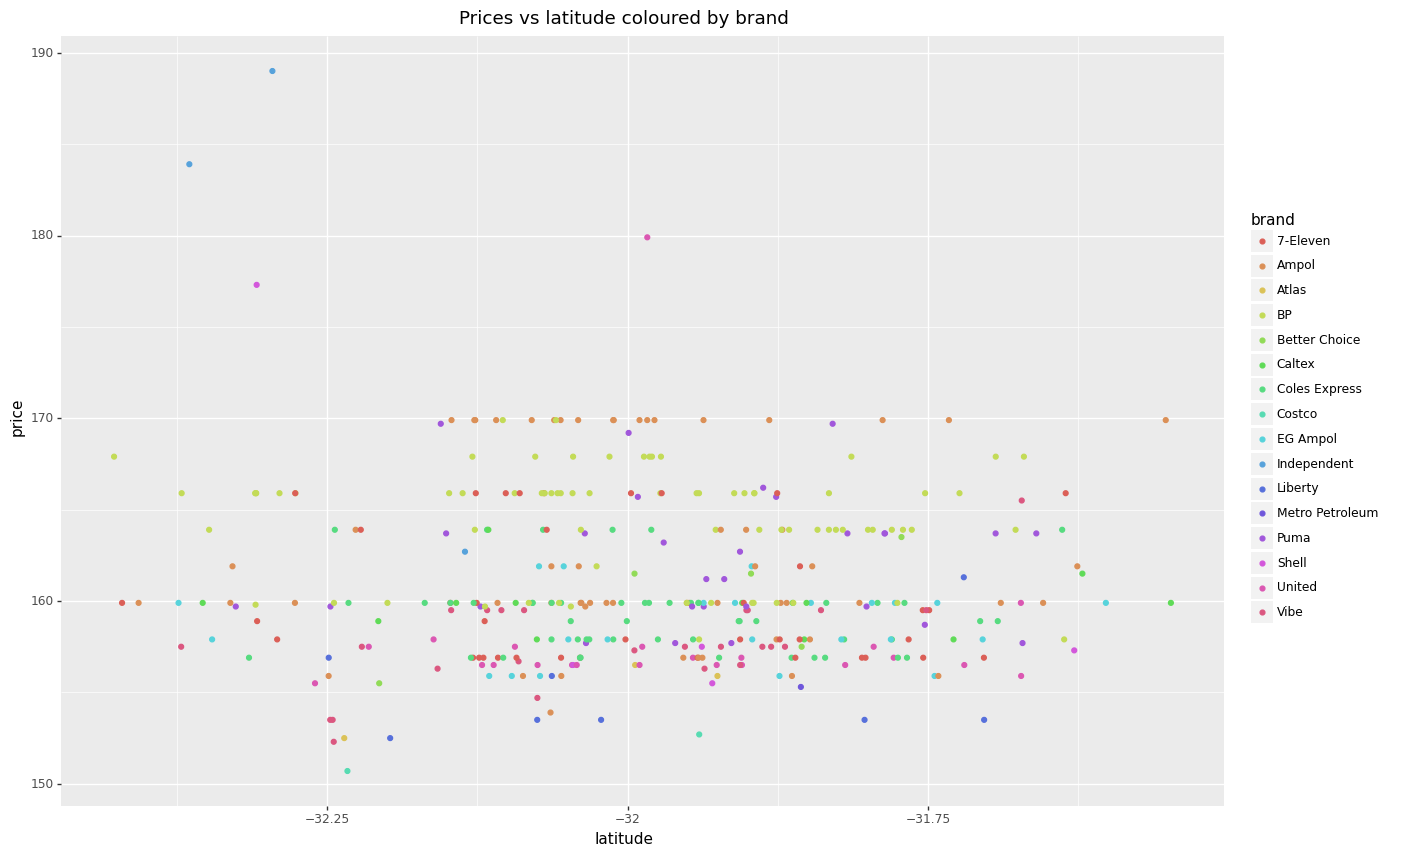
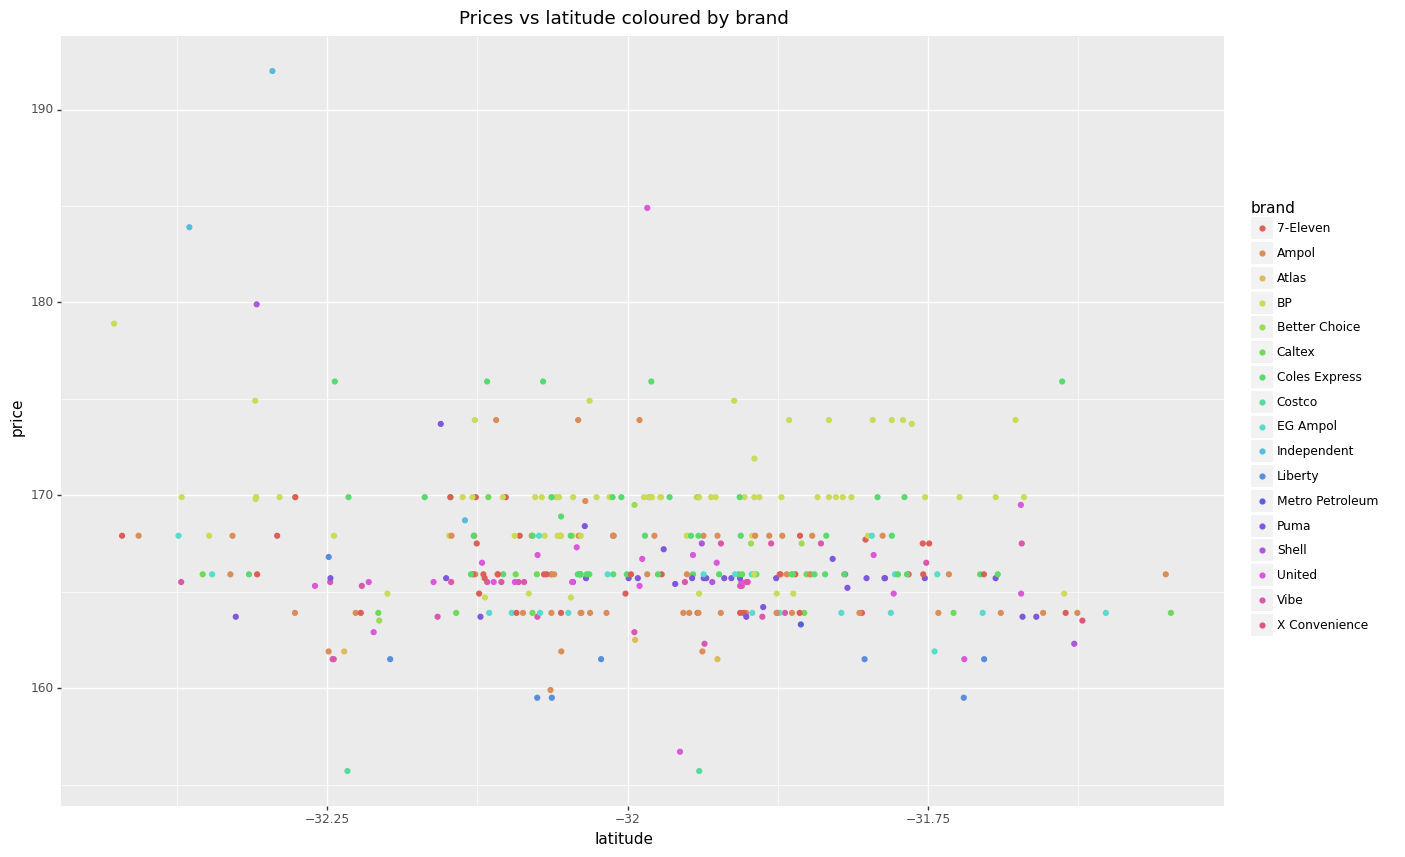
add code to save csv of data for date pulled

diff --git a/index.html b/index.html
@@ -14,6 +14,7 @@
             <!-- insert graph here -->
             <img class="plotOfPrices" src="images/plotNOR_SOR.png" alt="">
             <img class="plotMap" src="images/pricesHeatMap.png" alt="">
+            <img class="plotBar" src="images/brandsBarPlot.png" alt="">
         </div>
         <div class="fuelTable">
             <table border="1" class="dataframe">

diff --git a/header.html b/header.html
@@ -14,6 +14,7 @@
             <!-- insert graph here -->
             <img class="plotOfPrices" src="images/plotNOR_SOR.png" alt="">
             <img class="plotMap" src="images/pricesHeatMap.png" alt="">
+            <img class="plotBar" src="images/brandsBarPlot.png" alt="">
         </div>
         <div class="fuelTable">
             <!-- insert table here -->

diff --git a/style.css b/style.css
@@ -3,7 +3,7 @@ html, body {
     color: beige;
 }
 img {
-    width: 250px;
+    width: 500px;
     /* height: 250px; */
     padding: 10px;
     background-color: greenyellow;

diff --git a/backend.py b/backend.py
@@ -4,7 +4,7 @@ import numpy as np
 import pandas as pd
 import matplotlib.pyplot as plt
 import seaborn as sns
-from plotnine import ggplot, geom_point, aes, stat_smooth, facet_wrap, scale_x_continuous, theme_bw, ggtitle
+from plotnine import ggplot, geom_point, aes, stat_smooth, facet_wrap, scale_x_continuous, theme_bw, ggtitle, geom_col, scale_x_discrete, theme, element_text
 from datetime import datetime
 #%%
 def get_fuel(product_id, region_id):
@@ -48,6 +48,8 @@ print('NOR=',np.mean(pricesNOR.price))
 
 pricesPerth = pd.concat([pricesNOR, pricesSOR])
 
+#save output to a file for posterity
+pricesPerth.to_csv(f'data/{datetime.today().strftime("%d-%m-%Y")}-pricesPerth.csv')
 # create a plot of prices vs lattitude
 plotNOR_SOR = (ggplot(pricesPerth, aes(x='latitude', y='price', color='brand'))
     + geom_point()
@@ -55,6 +57,13 @@ plotNOR_SOR = (ggplot(pricesPerth, aes(x='latitude', y='price', color='brand'))
     )
 plotNOR_SOR.save('images/plotNOR_SOR.png', height=10, width=15)
 
+# %%
+brandsBarPlot = (
+    ggplot(pricesPerth, aes(x="brand", y="price")) +
+    geom_col() +
+    theme(axis_text_x=element_text(rotation=90, hjust=1))
+)
+brandsBarPlot.save('images/brandsBarPlot.png', height=10, width=15)
 # %%
 pricesHeatMap = (
     ggplot(pricesPerth, aes(y="latitude",x="longitude", colour = "price")) +
